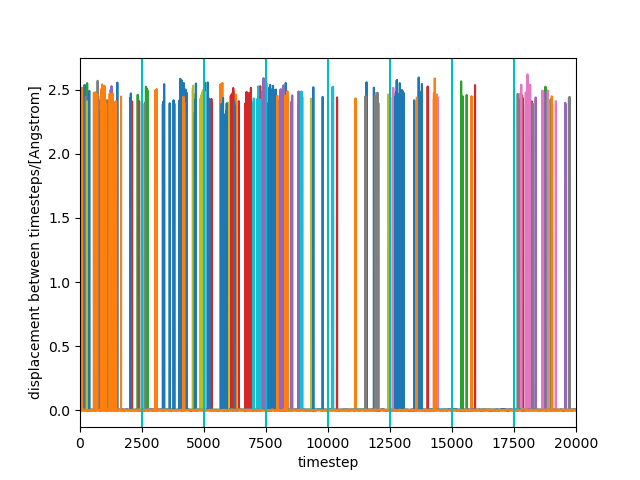
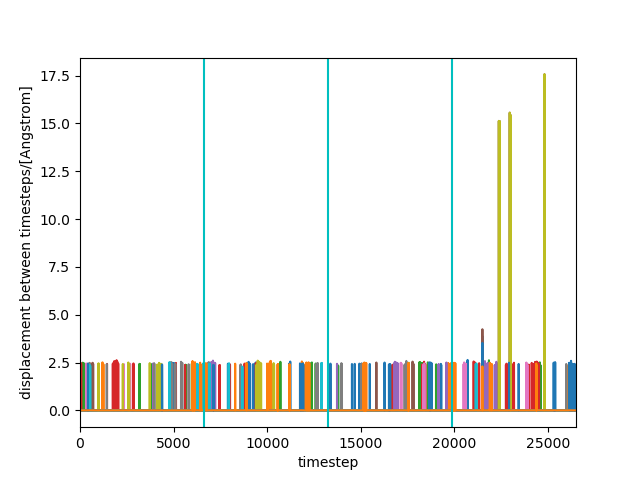
some corrupt files?

diff --git a/post-processing scripts/KOH systems/mpi_python.py b/post-processing scripts/KOH systems/mpi_python.py
@@ -1,7 +1,7 @@
 import numpy as np
 import pandas as pd
 import scipy as sp
-import re
+import glob
 import scipy.constants as co
 import scipy.optimize as opt
 import matplotlib.pyplot as plt
@@ -57,20 +57,30 @@ class Prot_Hop:
             folder (string): path to hdf5 otput file
         """
 
-        # import the system from the hdf5 output
-        self.df = Calculation.from_path(folder)
-        data = self.df.structure[:].to_dict()
-
-        # Calculate number of atoms total and per type and their indexes
-        self.N = np.array([data['elements'].count(self.species[0]),
-                           data['elements'].count(self.species[1]),
-                           data['elements'].count(self.species[2])])
-
-        # split array up
-        self.L = data['lattice_vectors'][0, 0, 0]
-        self.pos_all = self.L*data['positions']
-        self.pos_all_split = np.array_split(self.pos_all, self.size, axis=0)
+        # finds all vaspout*.h5 files in folder and orders them alphabetically
+        subsimulations = sorted(glob.glob(folder+r"/vaspout*"))
+        # loop over subsimulations
+        for i in range(len(subsimulations)):
+            self.df = Calculation.from_file(subsimulations[i])
+            data = self.df.structure[:].to_dict()
+            if i == 0:
+                # Load initial properties and arrays out of first simulation
+                self.N = np.array([data['elements'].count(self.species[0]),
+                                   data['elements'].count(self.species[1]),
+                                   data['elements'].count(self.species[2])])
+                self.L = data['lattice_vectors'][0, 0, 0]  # Boxsize
+                self.pos_all = self.L*data['positions']
+            else:
+                # load new positions, but apply pbc unwrapping (# ARGHGH VASP)
+                pos = self.L*data['positions']
+                dis_data = self.pos_all[-1, :, :] - pos[0, :, :]
+                dis_real = ((self.pos_all[-1, :, :] - pos[0, :, :] + self.L/2) % self.L - self.L/2)
+                pos -= (dis_real - dis_data)
+                # now matching together
+                self.pos_all = np.concatenate((self.pos_all, pos), axis=0)
         
+        # After putting multiple simulations together
+        self.pos_all_split = np.array_split(self.pos_all, self.size, axis=0)
         # calculate chunk sizes for communication
         self.chunks = [int]*self.size
         self.steps_split = [None]*self.size
@@ -129,7 +139,6 @@ class Prot_Hop:
         self.steps = self.comm.scatter(self.steps_split, root=0)
 
         self.n_max = len(self.pos[:, 0, 0])  # number of timestep on core
-        
         # communicate if cheapened calculation (less interaction types included)
         if self.rank == 0:
             self.cheap = self.cheap
@@ -140,7 +149,6 @@ class Prot_Hop:
         if self.rank == 0:
             # print('Rank', self.rank, "number timesteps", self.n_max)
             print('Time after communication', time.time() - self.tstart)
-
 
     def recognize_molecules(self, n):
         """
@@ -188,6 +196,10 @@ class Prot_Hop:
             
             self.OH_i_s = OH_i  # set this in the first timestep
         else:
+            if self.N_OH != self.n_OH[n] or self.n_H3O[n] > 0:  # Exemption for H3O+ cases
+                print(f"Strange behaviour found, H3O+ created. Rank", self.rank, 'timestep ', self.steps[n])
+                print(f"N_H3O+", self.n_H3O[n], 'N_OH', self.n_OH[n])
+
             if (OH_i == self.OH_i_s).all():  # No reaction occured only check PBC
                 self.OH_i[n, :] = self.OH_i[n-1, :]  # use origional sorting by using last version as nothing changed
                 self.OH[n, :, :] = self.pos_O[n, self.OH_i[n, :], :] + self.L*self.OH_shift
@@ -195,12 +207,8 @@ class Prot_Hop:
                 self.H2O_i[n, :] = self.H2O_i[n-1, :]  # use origional sorting by using last version as nothing changed
                 self.H2O[n, :, :] = self.pos_O[n, self.H2O_i[n, :], :] + self.L*self.H2O_shift
 
-            else:  # Normal reaction cases
+            else:  # Reaction cases
                 # find which OH- belongs to which OH-. This is difficult because of sorting differences.
-                
-                if self.N_OH != self.n_OH[n] or self.n_H3O[n] > 0:  # Exemption for H3O+ cases
-                    print(f"Strange behaviour found, H3O+ created. Rank", self.rank, 'timestep ', self.steps[n])
-
                 diff_new = np.setdiff1d(OH_i, self.OH_i[n-1, :], assume_unique=True)
                 diff_old = np.setdiff1d(self.OH_i[n-1, :], OH_i, assume_unique=True)
                 
@@ -303,7 +311,7 @@ class Prot_Hop:
         if self.rank == 0:
             print('Time calculating distances', time.time() - self.tstart)
 
-    def rdf_compute_all(self, n, nb=32, r_max=None):
+    def rdf_compute_all(self, n, nb=48, r_max=None):
         # RDF startup scheme
         if n == 0:
             # set standard maximum rdf value
@@ -315,7 +323,7 @@ class Prot_Hop:
             # set basic properties
             self.r = np.histogram(self.d_H2OH2O, bins=nb, range=(r_min, r_max))[1] # array with outer edges
             
-            # Standard rdf pairs            
+            # Standard rdf pairs
             self.rdf_H2OH2O = np.zeros(self.r.size -1)
             self.rdf_OHH2O = np.zeros(self.r.size -1)
             self.rdf_KOH = np.zeros(self.r.size -1)
@@ -347,7 +355,6 @@ class Prot_Hop:
         
         self.rdf_sample_counter += 1
         
-
     def stitching_together_all(self):
         # prepair gethering on all cores 1) All OH- stuff
         self.OH_i = self.comm.gather(self.OH_i, root=0)
@@ -401,8 +408,7 @@ class Prot_Hop:
         # Stich together correctly on main cores
         if self.rank == 0:
             self.stitching_together_main()
-
-        
+      
     def stitching_together_main(self):
         # NOW ADD 1 reaction recognition and 2 reordering
         # for every end of 1 section check with start next one
@@ -505,12 +511,15 @@ class Prot_Hop:
                     print("Indexing H2O between multicore and single core arrays differs more than acceptable")
                 if np.allclose(self.H2O, loaded['H2O'], rtol=1e-05, atol=1e-08, equal_nan=False) == False:
                     print("Positions H2O between multicore and single core arrays differs more than acceptable")
-                if np.allclose(self.rdf_H2OH2O, loaded['rdf_H2OH2O']) == False:
+                if np.allclose(self.rdf_H2OH2O, loaded['rdf_H2OH2O'], rtol=1e-05, atol=1e-08, equal_nan=False) == False:
                     print("RDF H2O-H2O between multicore and single core arrays differs more than acceptable")
-                if np.allclose(self.rdf_OHH2O, loaded['rdf_OHH2O']) == False:
+                    print("maximum difference =", np.max(self.rdf_H2OH2O - loaded['rdf_H2OH2O']), loaded['r_rdf'][np.argmax(self.rdf_H2OH2O - loaded['rdf_H2OH2O'])])
+                if np.allclose(self.rdf_OHH2O, loaded['rdf_OHH2O'], rtol=1e-05, atol=1e-08, equal_nan=False) == False:
                     print("RDF OH-H2O between multicore and single core arrays differs more than acceptable")
-                if np.allclose(self.rdf_KH2O, loaded['rdf_KH2O']) == False:
+                    print("maximum difference =", np.max(self.rdf_OHH2O - loaded['rdf_OHH2O']), loaded['r_rdf'][np.argmax(self.rdf_OHH2O - loaded['rdf_OHH2O'])])
+                if np.allclose(self.rdf_KH2O, loaded['rdf_KH2O'], rtol=1e-05, atol=1e-08, equal_nan=False) == False:
                     print("RDF K-H2O between multicore and single core arrays differs more than acceptable")
+                    print("maximum difference =", np.max(self.rdf_KH2O - loaded['rdf_KH2O']), loaded['r_rdf'][np.argmax(self.rdf_KH2O - loaded['rdf_KH2O'])])
                     
             
                 path = r'C:\Users\vlagerweij\Documents\TU jaar 6\Project KOH(aq)\Repros\Quantum_to_Transport\post-processing scripts\KOH systems\figures_mpi'
@@ -552,12 +561,10 @@ class Prot_Hop:
                 plt.xlabel('radius in A')
                 plt.ylabel('g(r)')
                 plt.savefig(path + r'\rdf_H2OH2O')
-        
-        
-
 
 # Traj = Prot_Hop(r"/mnt/c/Users/vlagerweij/Documents/TU jaar 6/Project KOH(aq)/Repros/RPBE_Production/AIMD/10ps/i_1/", dt=0.5)
 # Traj = Prot_Hop(r"/mnt/c/Users/vlagerweij/Documents/TU jaar 6/Project KOH(aq)/Repros/RPBE_Production/MLMD/100ps_Exp_Density/i_1", dt=0.5)
 # Traj = Prot_Hop(r"/Users/vlagerweij/Documents/TU jaar 6/Project KOH(aq)/Repros/RPBE_Production/MLMD/100ps_Exp_Density/i_1", dt=0.5)
 # Traj = Prot_Hop(r"/Users/vlagerweij/Documents/TU jaar 6/Project KOH(aq)/Repros/RPBE_Production/AIMD/10ps/i_1/", dt=0.5)
-Traj = Prot_Hop(r"/Users/vlagerweij/Documents/TU jaar 6/Project KOH(aq)/Repros/Quantum_to_Transport/post-processing scripts/KOH systems/test_output", dt=0.5)
+# Traj = Prot_Hop(r"/Users/vlagerweij/Documents/TU jaar 6/Project KOH(aq)/Repros/Quantum_to_Transport/post-processing scripts/KOH systems/test_output", dt=0.5)
+Traj = Prot_Hop(r"/Users/vlagerweij/Documents/TU jaar 6/Project KOH(aq)/Repros/Quantum_to_Transport/post-processing scripts/KOH systems/test_output/combined_simulation", dt=0.5)
